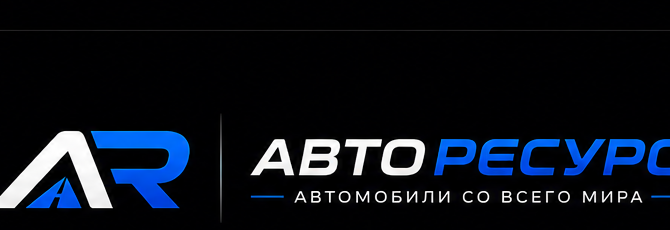
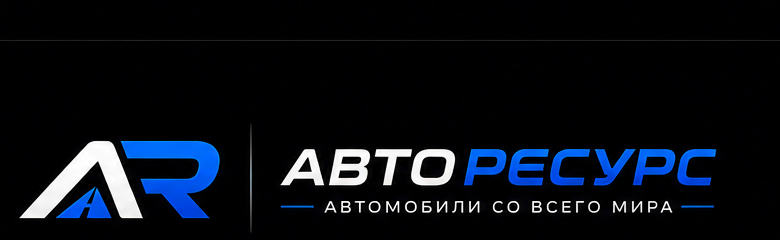
auto-commit for 2d0dc023-2a9a-400a-bf41-0e3919746d04

diff --git a/frontend/src/pages/auto/auto.css b/frontend/src/pages/auto/auto.css
@@ -1,24 +1,70 @@
 /* BuyAnywhere Auto — dark premium theme.
  * Scoped to elements under .auto-root so it does not affect the rest of the app.
+ *
+ * Brand Book v1.0 (АвтоРесурс) — design tokens below.
+ *   Fonts:   Montserrat (logo + headings), Inter (body + UI numbers)
+ *   Colours: #0066FF primary, #3385FF hover, #05070B bg, #0D111A card,
+ *            #111827 panel, #FFFFFF text, #A0A0A0 muted,
+ *            #00C853 success, #FF9800 warning, #FF3B30 danger
+ *   Radius:  12 (buttons), 16 (cards), 24 (modals)
+ *   Hover:   transform: translateY(-2px)
  */
 
-.auto-root {
-  --auto-bg: #0b0b0b;
-  --auto-card: #171717;
-  --auto-card-hover: #1f1f1f;
-  --auto-border: #262626;
-  --auto-primary: #0066ff;
-  --auto-primary-hover: #3385ff;
-  --auto-text: #ffffff;
-  --auto-muted: #a0a0a0;
-  --auto-success: #00c853;
-  --auto-warning: #ff9800;
-  --auto-danger: #ff3b30;
+@import url("https://fonts.googleapis.com/css2?family=Montserrat:ital,wght@0,700;0,800;1,700;1,800&family=Inter:wght@400;500;600;700&display=swap");
 
-  background: var(--auto-bg);
-  color: var(--auto-text);
+.auto-root {
+  /* ---- Colour tokens (Brand Book v1.0) ---- */
+  --ar-blue: #0066ff;
+  --ar-blue-hover: #3385ff;
+  --ar-black: #05070b;
+  --ar-card: #0d111a;
+  --ar-panel: #111827;
+  --ar-white: #ffffff;
+  --ar-grey: #a0a0a0;
+  --ar-success: #00c853;
+  --ar-warning: #ff9800;
+  --ar-danger: #ff3b30;
+
+  /* ---- Radius tokens ---- */
+  --ar-radius-btn: 12px;
+  --ar-radius-card: 16px;
+  --ar-radius-modal: 24px;
+
+  /* ---- Shadow tokens ---- */
+  --ar-shadow-primary: 0 10px 40px rgba(0, 102, 255, 0.15);
+
+  /* ---- Type tokens ---- */
+  --ar-font-logo: "Montserrat", "Inter", system-ui, sans-serif;
+  --ar-font-heading: "Montserrat", "Inter", system-ui, sans-serif;
+  --ar-font-body: "Inter", system-ui, sans-serif;
+
+  /* ---- Legacy aliases used across older components ---- */
+  --auto-bg: var(--ar-black);
+  --auto-card: var(--ar-card);
+  --auto-card-hover: #1a2030;
+  --auto-border: rgba(255, 255, 255, 0.08);
+  --auto-primary: var(--ar-blue);
+  --auto-primary-hover: var(--ar-blue-hover);
+  --auto-text: var(--ar-white);
+  --auto-muted: var(--ar-grey);
+  --auto-success: var(--ar-success);
+  --auto-warning: var(--ar-warning);
+  --auto-danger: var(--ar-danger);
+
+  background: var(--ar-black);
+  color: var(--ar-white);
   min-height: 100vh;
-  font-family: "Manrope", "Inter", -apple-system, BlinkMacSystemFont, sans-serif;
+  font-family: var(--ar-font-body);
+  font-feature-settings: "ss01", "ss02", "cv11";
+}
+
+.auto-root h1,
+.auto-root h2,
+.auto-root h3,
+.auto-root h4 {
+  font-family: var(--ar-font-heading);
+  font-weight: 800;
+  letter-spacing: -0.01em;
 }
 
 .auto-root a {

diff --git a/frontend/src/pages/auto/AutoLayout.jsx b/frontend/src/pages/auto/AutoLayout.jsx
@@ -34,9 +34,10 @@ export default function AutoLayout() {
         <div className="mx-auto flex max-w-7xl items-center justify-between gap-6 px-6 py-4">
           <NavLink to="/auto" end className="flex items-center" data-testid="auto-brand">
             <img
-              src="/branding/avtoresurs-lockup.png"
+              src="/branding/avtoresurs-lockup.png?v=2"
               alt="АвтоРесурс — автомобили со всего мира"
-              className="h-12 w-auto select-none lg:h-14"
+              className="h-14 w-auto select-none lg:h-16"
+              style={{ minWidth: 220 }}
               draggable="false"
             />
           </NavLink>
